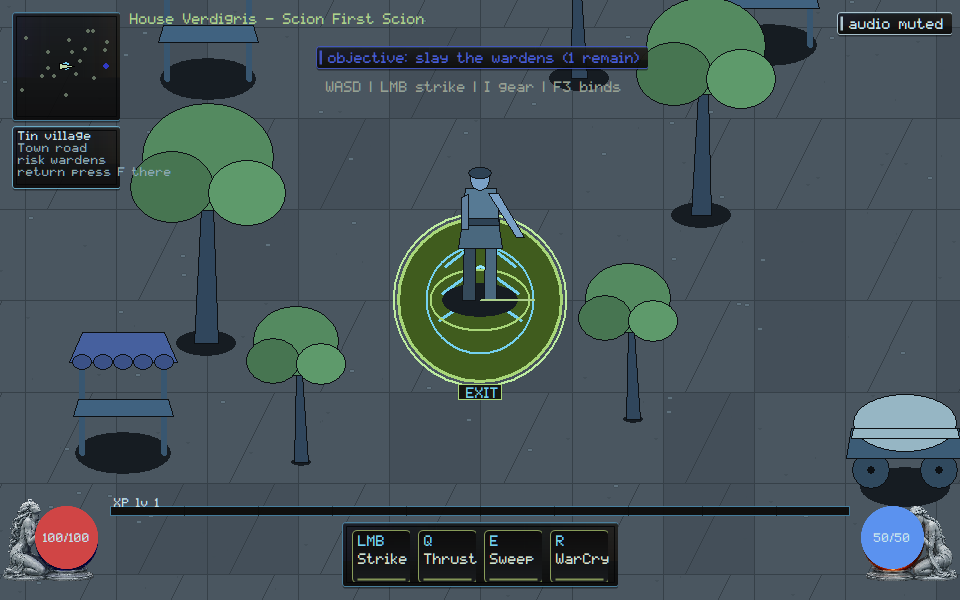
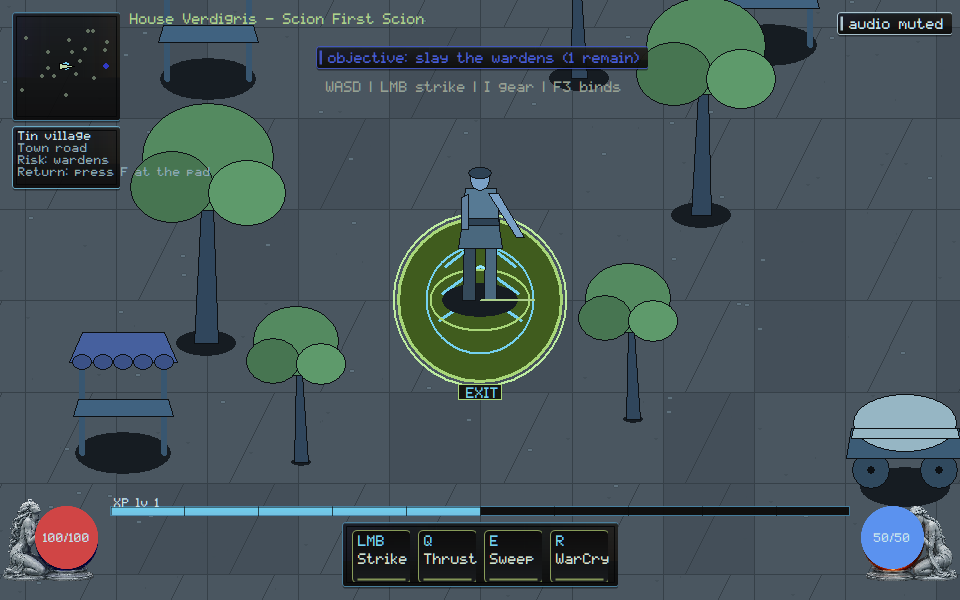
native: fill the composition sheet XP meter and owner risk lines
visual-target now shows a live XP fill. The route card paints Risk: wardens and Return: press F at the pad without dumping protocol jargon.

Changed region(s): [[0.0938, 0.84, 0.5, 0.87], [0.0625, 0.24, 0.2188, 0.3]]

diff --git a/native/client/main.cpp b/native/client/main.cpp
@@ -4468,9 +4468,13 @@ void paint_route_card(ClientState& state, HDC dc, const RECT& bounds,
   SetTextColor(dc, skin::kInkDim);
   TextOutA(dc, x, y, theme.c_str(), static_cast<int>(theme.size()));
   y += step;
-  TextOutA(dc, x, y, risk.c_str(), static_cast<int>(risk.size()));
+  const std::string risk_line =
+      verdigris::client::ui::route_risk_owner_line(risk);
+  const std::string ret_line =
+      verdigris::client::ui::route_return_owner_line(ret);
+  TextOutA(dc, x, y, risk_line.c_str(), static_cast<int>(risk_line.size()));
   y += step;
-  TextOutA(dc, x, y, ret.c_str(), static_cast<int>(ret.size()));
+  TextOutA(dc, x, y, ret_line.c_str(), static_cast<int>(ret_line.size()));
   SelectObject(dc, old_font);
   rl.push_back({render::Op::Hud, static_cast<double>(card.x),
                 static_cast<double>(card.y), 0.0, 0, "route:" + route});
@@ -10260,6 +10264,8 @@ int scenario_visual_target() {
   ClientState state;
   scenario_begin(state);
   scenario_follow_camera(state);
+  // Composition sheet is a live expedition, not an empty XP hairline.
+  state.local_combat_xp = 36;
   scenario_present(state);
   auto has = [&](const char* name) {
     for (const auto& item : state.render_list)
@@ -10279,6 +10285,8 @@ int scenario_visual_target() {
       loader_chip = true;
   scenario_check(!loader_chip,
                  "visual-target: a loader chip cannot count as the composition sheet");
+  scenario_check(state.world.xp_fraction > 0.25 && state.world.xp_fraction < 0.85,
+                 "visual-target: the composition sheet shows a filled XP meter");
   const std::string dir = art_wave_capture_dir();
   if (dir.empty()) {
     scenario_check(false, "visual-target: capture root rejected before any write");
@@ -12066,6 +12074,13 @@ int scenario_route_map() {
                  "route-map: a display name without colons still shows");
   scenario_check(route_theme_label("town") == "Town road",
                  "route-map: town theme is a road name, not theme town");
+  using verdigris::client::ui::route_risk_owner_line;
+  using verdigris::client::ui::route_return_owner_line;
+  scenario_check(route_risk_owner_line("risk wardens") == "Risk: wardens",
+                 "route-map: owner risk line is Risk: wardens");
+  scenario_check(route_return_owner_line("return press F there") ==
+                     "Return: press F at the pad",
+                 "route-map: owner return line names the pad, not press F there");
 
   ClientState state;
   scenario_begin(state);

diff --git a/native/client/ui/implement-map-and-route-explanation.hpp b/native/client/ui/implement-map-and-route-explanation.hpp
@@ -94,4 +94,19 @@ inline std::string route_theme_label(const std::string& theme) {
   return label;
 }
 
+inline std::string route_risk_owner_line(const std::string& fact) {
+  if (fact == "risk wardens") return "Risk: wardens";
+  if (fact == "risk extract") return "Risk: extract";
+  if (fact == "risk none posted") return "Risk: none posted";
+  return fact;
+}
+
+inline std::string route_return_owner_line(const std::string& ret) {
+  if (ret == "return town") return "Return: town";
+  if (ret.find("press F") != std::string::npos) return "Return: press F at the pad";
+  if (ret.find("walk onto") != std::string::npos)
+    return "Return: walk onto the pad";
+  return ret;
+}
+
 }  // namespace verdigris::client::ui

diff --git a/orchestration/CURSOR_KIMI_LANES.md b/orchestration/CURSOR_KIMI_LANES.md
@@ -320,3 +320,13 @@ Please move off that branch before taking a new native path.
   Protocol colon-id cannot pass. Not Owner Demo.
 - **Stay off** `native/client/main.cpp` and `docs/execution/**`. SEC/CORE
   remain yours. GOV-002 still unstamped.
+
+## Cursor reply (2026-09-06, composition sheet XP)
+
+- **Lease:** `main.cpp` still **ACTIVE**. `remote_session.cpp` stays
+  **RELEASED**. Do not re-spec TASK-0108 core/wire.
+- **Landed this push:** VG-ART-001 / VG-UI-005 — composition sheet shows
+  a filled XP meter; route card paints Risk/Return owner lines. Not Owner
+  Demo.
+- **Stay off** `native/client/main.cpp` and `docs/execution/**`. SEC/CORE
+  remain yours. GOV-002 still unstamped.

diff --git a/docs/rebuild/HANDOFF.md b/docs/rebuild/HANDOFF.md
@@ -1,5 +1,12 @@
 # Native reconstitution handoff
 
+## 2026-09-06 — composition sheet XP + owner risk/return (Cursor)
+
+- `visual-target` seeds three level-1 kill XP so the sheet shows a filled
+  meter, not a black hairline. Route card paints `Risk: wardens` and
+  `Return: press F at the pad`. HUD op labels stay protocol-stable.
+- Captures `visual-target-960x600.png` and `route-map-960x600.png`.
+
 ## 2026-09-06 — owner route card names (Cursor)
 
 - Route card paints `Tin village` / `Town road`, not `route:tin:1:0`.
